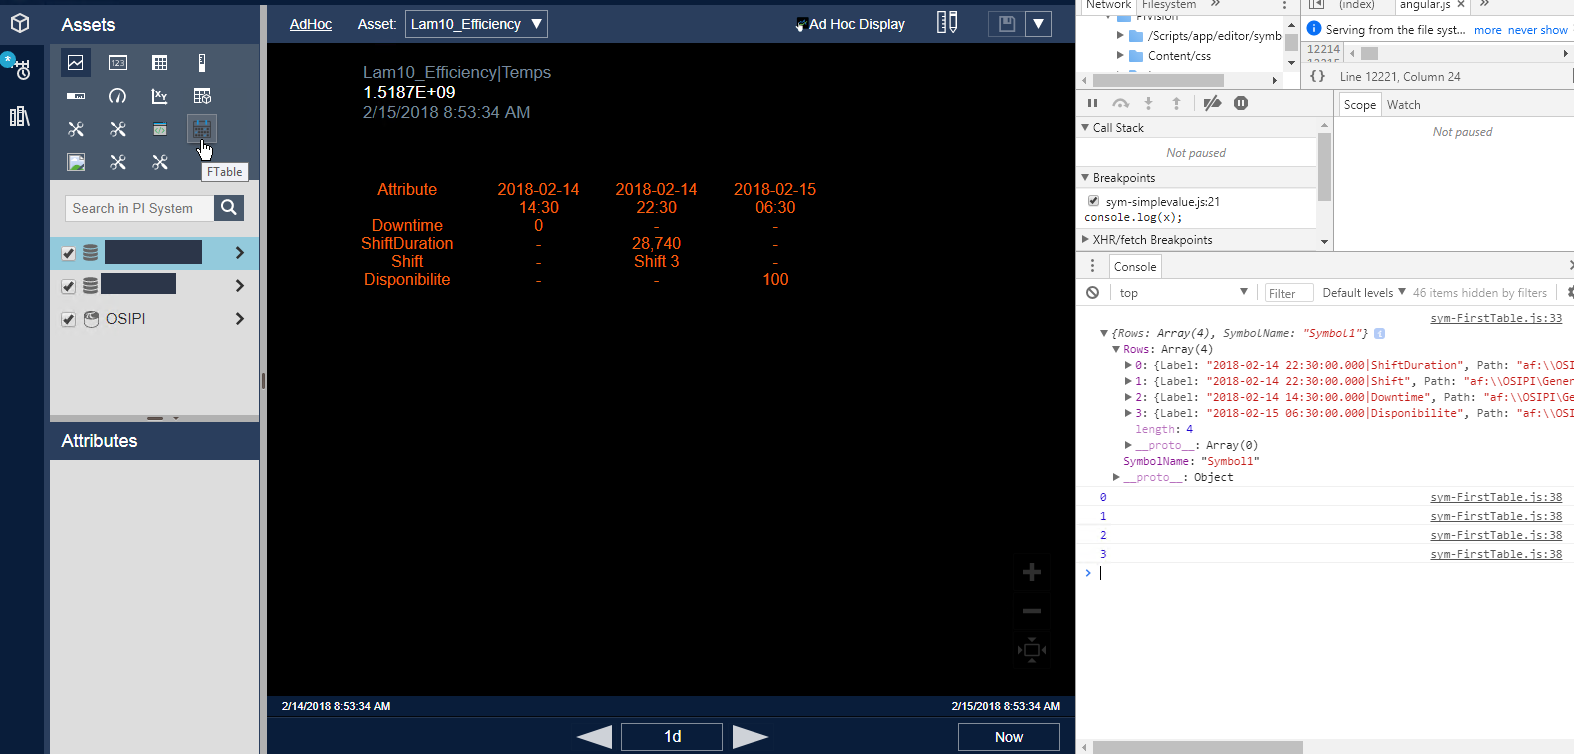
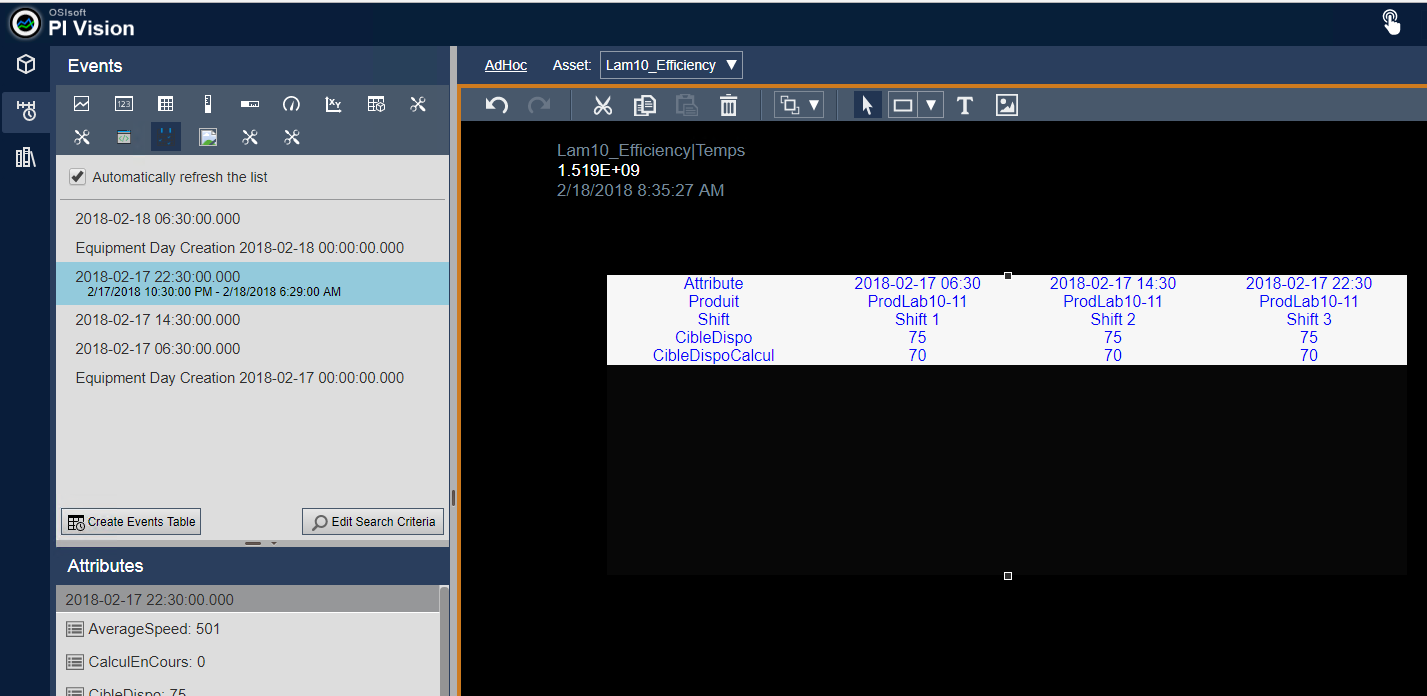
New fonctionality
add config panel, change the hardcoded table creation for a dynamic one.

diff --git a/sym-FTable.js b/sym-FTable.js
@@ -1,0 +1,96 @@
+
+//This is a prototype for a symbol to show event in a table like format
+//This was done for the training program on custom symbol
+//This was done also for a specific set of data 
+//The next version will loop through the data and create the column dynamically
+//Creation : Christian Gagnon 
+//Company : Symasol.com
+//Date : 2/16/2018
+
+
+(function (PV) {
+	"use strict";
+
+	function symbolVis() { };
+	PV.deriveVisualizationFromBase(symbolVis);
+
+
+  var definition = { 
+    typeName: "FTable",
+    visObjectType: symbolVis,
+    datasourceBehavior: PV.Extensibility.Enums.DatasourceBehaviors.Multiple,
+    iconUrl: 'Images/FTable.png',
+    templateUrl: 'scripts/app/editor/symbols/ext/sym-FTable-template.html',
+    resizerMode: 'AutoWidth',
+    configOptions : function() {
+        return[
+            {
+                    title: "Format Symbol",
+                    mode : "format"
+            }
+            ];
+        },
+    getDefaultConfig: function(){ 
+      return { 
+        DataShape: 'Table',
+        Height: 300,
+        Width: 800 ,
+        BackgroundColor : 'white',
+        FontColor : 'blue'
+      } 
+    }
+  }
+
+
+	symbolVis.prototype.init = function(scope, elem) {
+		this.onDataUpdate = dataUpdate;
+        scope.names = [];
+        scope.names = [];
+        scope.names[0] = {
+          Name: "Attribute",
+          Events: []
+        }
+
+		function dataUpdate(data) {
+       if(!data) return;
+
+
+console.log(data);
+
+data.Rows.forEach(row => {
+  var attribute = row.Label.split('|')[1];
+  var date = row.Label.split('|')[0].substring(0,16); //data.Label.split('|')[0].substring(0,16),
+  var value = row.Value;
+
+  var index_of_date = scope.names[0].Events.indexOf(date);
+  if(index_of_date === -1) {
+    index_of_date = scope.names[0].Events.push(date) - 1;
+  }
+
+  var index_of_attr = scope.names.find(x => x.Name == attribute);
+  if(index_of_attr == null) {
+    scope.names.push({
+      Name: attribute,
+      Events: []
+    });
+    scope.names[scope.names.length-1].Events[index_of_date] = value;
+  } else {
+    index_of_attr.Events[index_of_date] = value;
+  }
+});
+
+scope.names.forEach(row => {
+  row.Events.forEach(evn => {
+    if( evn == null)
+      evn = "-";
+  });
+});
+console.log(scope.names)
+
+    
+			} 
+
+	 };
+
+	PV.symbolCatalog.register(definition); 
+})(window.PIVisualization); 

diff --git a/sym-FTable-config.html b/sym-FTable-config.html
@@ -1,0 +1,17 @@
+<ul kendo-panel-bar class="t-side-panel-bgcolor" style="font-size: 14px;"> 
+	<li class="k-state-active"> 
+		<span class="panel-bar-label-no-wrap">Configuration</span>
+		<div class="config-option-single-row" style="margin:10px 20px; font-size: 14px;"> 
+			<div class="config-option-ie11-overflow-fix"> 
+				<div style="width: 85%; margin: 10px 0 15px 20px;">
+					<pv-color-picker colorkeyword="Background" ng-model="config.BackgroundColor">
+					</pv-color-picker>
+			</div>
+			<div style="width: 85%; margin: 10px 0 15px 20px;">
+					<pv-color-picker colorkeyword="FontStyle" ng-model="config.FontColor">
+					</pv-color-picker>
+			</div>
+
+		</div> 
+	</li>
+</ul>

diff --git a/sym-FTable-template.html b/sym-FTable-template.html
@@ -3,13 +3,11 @@
 <head>
 </head>
 <body>
-<div style="color:rgb(250, 250, 253)" >
-<table border="2" , style="color:rgb(243, 100, 17)" >
+<div ng-style="{'background-color':config.BackgroundColor}" >
+ <table ng-style= "{'color' :config.FontColor}" > 
 <tr ng-repeat="x in names">
-<td width="250">{{x.Name}}</td>
-<td width="250">{{x.Event1}}</td>
-<td width="250">{{x.Event2}}</td>
-<td width="250">{{x.Event3}}</td></tr>
+<td width="300">{{x.Name}}</td>
+<td width="300" ng-repeat="e in x.Events track by $index">{{e}}</td>
 </table>
 </div>
 </body>
